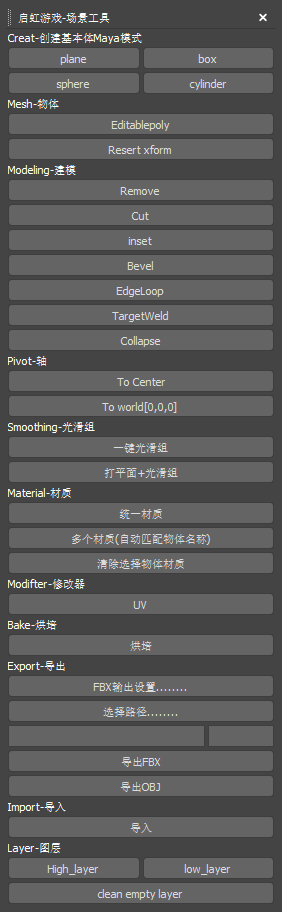
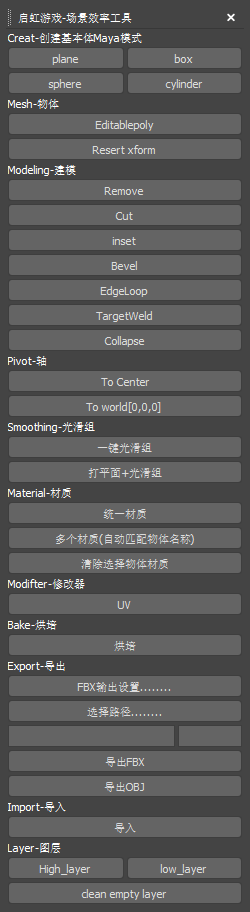
add

diff --git a/QH_tool_max2022.py b/QH_tool_max2022.py
@@ -54,7 +54,7 @@ class PyMaxDockWidget(QtWidgets.QDockWidget):
     def __init__(self, parent=None):
         super(PyMaxDockWidget, self).__init__(parent)
         self.setWindowFlags(QtCore.Qt.Tool)
-        self.setWindowTitle('启虹游戏-场景工具')
+        self.setWindowTitle('启虹游戏-场景效率工具')
         self.initUI()
         self.setAttribute(QtCore.Qt.WA_DeleteOnClose)
 
